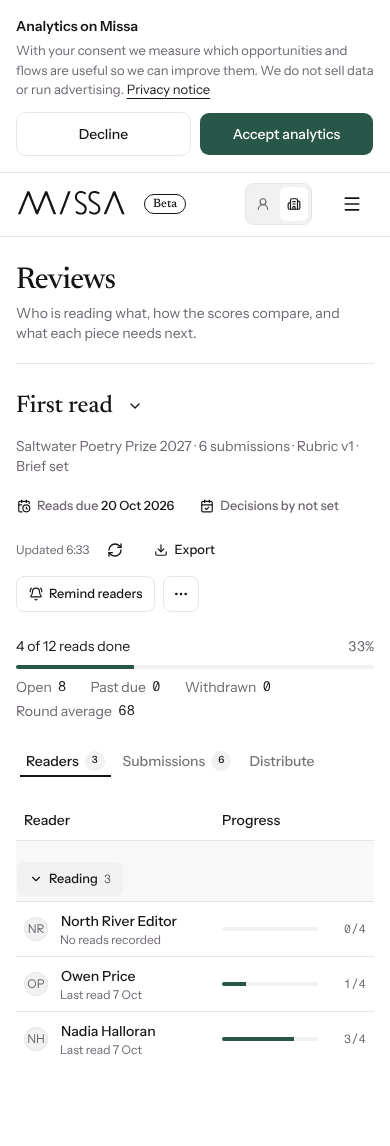
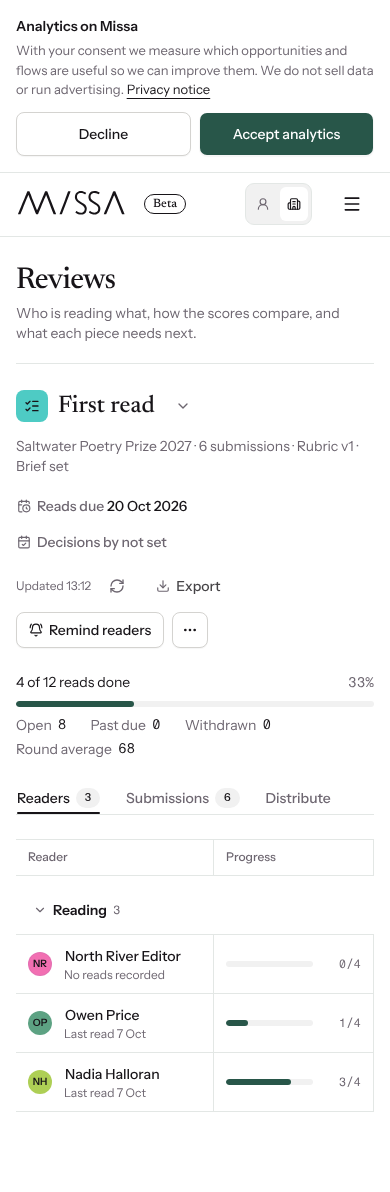
Rebuild Reviews on the Asana-grade components with colour
- Readers, submitters and the reader pool use PersonAvatar, so each
  person keeps one colour across lists, menus and detail panes.
- Each round is marked by a HueTile in the header and the round switcher.
- Reader and submission lists use the grid table with bold disclosure
  section headers that no longer pick up a grey band.
- Due and decision dates are chosen from a calendar popover.
- Rubric criteria carry a numbered colour tile in the editor and on the
  reader's scorecard, matched by criterion id.
- Scorecard headings use the interface face.

New: HueTile (components/missa), Button `disclosure`, PopoverHeader
`ruled`; policy and catalogue updated.

Claude-Session: https://claude.ai/code/session_01GKS91rw5HFDvnTWJByXCnh

diff --git a/apps/web/components/reader-operations.tsx b/apps/web/components/reader-operations.tsx
@@ -7,7 +7,6 @@ import { BellRing, Check, ChevronDown, ChevronRight, Download, Ellipsis, FileTex
 import type { DistributionPlan } from '@missa/workspace-engine';
 import type { RankedSubmissionRow, RoundOperationsView, RoundReaderRow } from '@/lib/readerOperationsData';
 import { Alert, AlertDescription, AlertTitle } from '@/components/ui/alert';
-import { Avatar, AvatarFallback } from '@/components/ui/avatar';
 import { Button } from '@/components/ui/button';
 import { Checkbox } from '@/components/ui/checkbox';
 import { Dialog, DialogClose, DialogContent, DialogDescription, DialogFooter, DialogHeader, DialogTitle } from '@/components/ui/dialog';
@@ -23,6 +22,8 @@ import { Tabs, TabsContent, TabsList, TabsTrigger } from '@/components/ui/tabs';
 import { Textarea } from '@/components/ui/textarea';
 import { CalibrationBadge, WorkDecisionBadge } from '@/components/missa/operations-badges';
 import { CountBadge } from '@/components/missa/count-badge';
+import { HueTile } from '@/components/missa/hue-tile';
+import { PersonAvatar } from '@/components/missa/person-avatar';
 import { SegmentedChoice } from '@/components/missa/segmented-choice';
 import { DecisionDateControl, NewRoundDialog, PromoteDialog, PublishResultsDialog, ReassignReadsDialog, RoundBriefDialog, RoundDueDateControl, RubricDialog } from '@/components/reader-round-actions';
 
@@ -34,7 +35,6 @@ export interface RoundSummary { id: string; name: string; opportunityTitle: stri
 const dayMonth = (value: string) => new Intl.DateTimeFormat('en-GB', { day: 'numeric', month: 'short' }).format(new Date(value));
 const clock = (value: string) => { const date = new Date(value); return Number.isNaN(date.getTime()) ? value : new Intl.DateTimeFormat('en-GB', { hour: 'numeric', minute: '2-digit' }).format(date); };
 const sentence = (value: string) => { const text = value.replaceAll('-', ' ').toLocaleLowerCase('en'); return text.charAt(0).toUpperCase() + text.slice(1); };
-const initials = (label: string) => label.split(/[\s@._-]+/u).filter(Boolean).slice(0, 2).map((part) => part[0]!.toUpperCase()).join('') || '?';
 
 function conflictLabel(reason: DistributionPlan['conflicts'][number]['reason']): string {
   switch (reason) {
@@ -118,7 +118,8 @@ export function ReaderOperations({ organizationId, initial, canManage, stageLabe
   return (
     <div className="grid gap-6">
       <header className="grid gap-3">
-        <div className="flex min-w-0 items-center gap-1">
+        <div className="flex min-w-0 items-center gap-2.5">
+          <HueTile identity={view.round.id}><ListChecks /></HueTile>
           <h2 id="round-title" className="truncate font-heading text-2xl font-medium text-foreground">{view.round.name}</h2>
           <DropdownMenu>
             <DropdownMenuTrigger render={<Button type="button" variant="ghost" size="icon-sm" />} aria-label="Switch review round">
@@ -129,12 +130,13 @@ export function ReaderOperations({ organizationId, initial, canManage, stageLabe
                 <DropdownMenuLabel>Review rounds</DropdownMenuLabel>
                 {rounds.map((round) => (
                   <DropdownMenuItem key={round.id} onClick={() => router.push(`${reviewsHref}?selected=${encodeURIComponent(round.id)}`)}>
-                    <span className="flex size-4 items-center justify-center">{round.id === roundId ? <Check aria-hidden="true" /> : null}</span>
+                    <HueTile identity={round.id} size="sm"><ListChecks /></HueTile>
                     <span className="grid min-w-0 flex-1">
                       <span className="truncate text-foreground">{round.name}</span>
                       <span className="truncate text-xs text-muted-foreground">{round.opportunityTitle}</span>
                     </span>
                     <span className="font-mono text-xs text-muted-foreground tabular-nums">{round.complete}/{round.total}</span>
+                    {round.id === roundId ? <Check aria-label="Current round" className="text-primary" /> : <span className="size-4" />}
                   </DropdownMenuItem>
                 ))}
               </DropdownMenuGroup>
@@ -214,7 +216,7 @@ export function ReaderOperations({ organizationId, initial, canManage, stageLabe
           {view.readers.length === 0 ? (
             <Empty variant="bordered"><EmptyHeader><EmptyTitle>No readers yet</EmptyTitle><EmptyDescription>Invite members with the reviewer role, then distribute this round.</EmptyDescription></EmptyHeader></Empty>
           ) : (
-            <Table>
+            <Table variant="grid">
               <caption className="sr-only">Readers in {view.round.name}, grouped by where they are</caption>
               <TableHeader>
                 <TableRow>
@@ -234,7 +236,7 @@ export function ReaderOperations({ organizationId, initial, canManage, stageLabe
                       <TableRow key={reader.reviewerAccountId} data-state={reader.reviewerAccountId === readerId ? 'selected' : undefined}>
                         <TableCell>
                           <div className="flex min-w-0 items-center gap-3">
-                            <Avatar size="sm"><AvatarFallback>{initials(reader.label)}</AvatarFallback></Avatar>
+                            <PersonAvatar size="sm" name={reader.label} identity={reader.reviewerAccountId} />
                             <div className="grid min-w-0">
                               <Button type="button" variant="rowTitle" size="inline" onClick={() => setReaderId(reader.reviewerAccountId)}>{reader.label}</Button>
                               <span className="truncate text-xs text-muted-foreground">{reader.lastActivityAt ? `Last read ${dayMonth(reader.lastActivityAt)}` : 'No reads recorded'}</span>
@@ -264,7 +266,7 @@ export function ReaderOperations({ organizationId, initial, canManage, stageLabe
             <Empty variant="bordered"><EmptyHeader><EmptyTitle>No submissions in this opportunity</EmptyTitle><EmptyDescription>The ranking fills in as submissions arrive and readers record scores.</EmptyDescription></EmptyHeader></Empty>
           ) : (
             <>
-              <Table>
+              <Table variant="grid">
                 <caption className="sr-only">Submissions ranked by average score, grouped by decision</caption>
                 <TableHeader>
                   <TableRow>
@@ -282,9 +284,12 @@ export function ReaderOperations({ organizationId, initial, canManage, stageLabe
                       <TableRow key={row.submissionId} data-state={row.submissionId === submissionId ? 'selected' : undefined}>
                         <TableCell className="text-end font-mono text-xs tabular-nums"><span className="text-muted-foreground">{view.ranking.indexOf(row) + 1}</span></TableCell>
                         <TableCell>
+                          <div className="flex min-w-0 items-center gap-3">
+                          <PersonAvatar size="sm" name={row.submitterLabel} identity={row.submissionId} />
                           <div className="grid min-w-0">
                             <Button type="button" variant="rowTitle" size="inline" onClick={() => setSubmissionId(row.submissionId)}>{row.submitterLabel}</Button>
                             <span className="truncate text-xs text-muted-foreground">{row.works.map((work) => work.title).join(' · ') || 'No Works'}</span>
+                          </div>
                           </div>
                         </TableCell>
                         <TableCell className="hidden text-end font-mono tabular-nums sm:table-cell">{row.completedCount}/{row.readerCount}</TableCell>
@@ -339,8 +344,8 @@ function ListGroup({ title, count, columns, defaultOpen = true, children }: { ti
   return (
     <TableBody>
       <TableRow variant="static">
-        <TableCell colSpan={columns} className="px-0 pt-5 pb-1">
-          <Button type="button" variant="ghost" size="sm" aria-expanded={open} onClick={() => setOpen((current) => !current)}>
+        <TableCell colSpan={columns} className="px-1 pt-4 pb-1.5">
+          <Button type="button" variant="disclosure" size="sm" aria-expanded={open} onClick={() => setOpen((current) => !current)}>
             {open ? <ChevronDown aria-hidden="true" /> : <ChevronRight aria-hidden="true" />}
             {title}
             <span className="font-mono text-xs font-normal text-muted-foreground tabular-nums">{count}</span>
@@ -385,7 +390,7 @@ function ReaderDetail({ reader, view, base, roundId, canMove, onMoved }: { reade
     <>
       <SheetHeader variant="section" className="pe-12">
         <div className="flex items-center gap-3">
-          <Avatar size="lg"><AvatarFallback>{initials(reader.label)}</AvatarFallback></Avatar>
+          <PersonAvatar size="lg" name={reader.label} identity={reader.reviewerAccountId} />
           <div className="grid min-w-0">
             <SheetTitle className="truncate">{reader.label}</SheetTitle>
             <SheetDescription>{sentence(reader.role)} · {view.round.name}</SheetDescription>
@@ -495,7 +500,7 @@ function NudgeDialog({ base, roundId, readers }: { base: string; roundId: string
           <ul className="max-h-48 divide-y divide-border overflow-auto border-y border-border text-sm">
             {readers.map((reader) => (
               <li key={reader.reviewerAccountId} className="flex items-center gap-3 py-2">
-                <Avatar size="sm"><AvatarFallback>{initials(reader.label)}</AvatarFallback></Avatar>
+                <PersonAvatar size="sm" name={reader.label} identity={reader.reviewerAccountId} />
                 <span className="min-w-0 flex-1 truncate">{reader.label}</span>
                 <span className="font-mono text-xs text-muted-foreground tabular-nums">{reader.open} open{reader.overdue ? ` · ${reader.overdue} past due` : ''}</span>
               </li>
@@ -582,7 +587,7 @@ function DistributionPanel({ base, roundId, view, onApplied }: { base: string; r
                 <li key={member.accountId}>
                   <label className="flex min-h-11 items-center gap-3 px-1 text-sm hover:bg-muted/50">
                     <Checkbox checked={selected.has(member.accountId)} onCheckedChange={(checked) => toggle(member.accountId, Boolean(checked))} aria-label={`Include ${member.label}`} />
-                    <Avatar size="sm"><AvatarFallback>{initials(member.label)}</AvatarFallback></Avatar>
+                    <PersonAvatar size="sm" name={member.label} identity={member.accountId} />
                     <span className="min-w-0 flex-1 truncate">{member.label}</span>
                     <span className="text-xs text-muted-foreground">{sentence(member.role)}</span>
                     <span className="w-16 text-end font-mono text-xs text-muted-foreground tabular-nums">{member.openAssignments} open</span>

diff --git a/apps/web/components/reader-round-actions.tsx b/apps/web/components/reader-round-actions.tsx
@@ -12,9 +12,11 @@ import { Dialog, DialogClose, DialogContent, DialogDescription, DialogFooter, Di
 import { Field, FieldDescription, FieldLabel } from '@/components/ui/field';
 import { Input } from '@/components/ui/input';
 import { NativeSelect, NativeSelectOption } from '@/components/ui/native-select';
+import { Calendar } from '@/components/ui/calendar';
 import { Popover, PopoverContent, PopoverDescription, PopoverHeader, PopoverTitle, PopoverTrigger } from '@/components/ui/popover';
 import { Textarea } from '@/components/ui/textarea';
 import { SegmentedChoice } from '@/components/missa/segmented-choice';
+import { HueTile } from '@/components/missa/hue-tile';
 import { RUBRIC_UI_LIMITS } from '@/lib/rubricClient';
 
 /**
@@ -47,30 +49,29 @@ function dateInputValue(value?: string): string {
  * A date shown as a field value, edited in a small popover: the way a task
  * tool shows a due date. Saving and clearing go through the caller's route.
  */
-function DateFieldPopover({ id, icon, label, emptyLabel, description, value, onSave }: { id: string; icon: React.ReactNode; label: string; emptyLabel: string; description: string; value?: string; onSave: (next: string | null) => Promise<boolean> }) {
+function DateFieldPopover({ icon, label, emptyLabel, description, value, onSave }: { id?: string; icon: React.ReactNode; label: string; emptyLabel: string; description: string; value?: string; onSave: (next: string | null) => Promise<boolean> }) {
   const [open, setOpen] = useState(false);
-  const [draft, setDraft] = useState(dateInputValue(value));
   const [pending, startTransition] = useTransition();
+  const selected = value ? new Date(`${dateInputValue(value)}T12:00:00`) : undefined;
   const save = (next: string | null) => startTransition(async () => { if (await onSave(next)) setOpen(false); });
+  const iso = (date: Date) => `${date.getFullYear()}-${String(date.getMonth() + 1).padStart(2, '0')}-${String(date.getDate()).padStart(2, '0')}`;
   return (
-    <Popover open={open} onOpenChange={(next) => { setOpen(next); if (next) setDraft(dateInputValue(value)); }}>
+    <Popover open={open} onOpenChange={setOpen}>
       <PopoverTrigger render={<Button type="button" variant="ghost" size="sm" />}>
         {icon}
         <span><span className="text-muted-foreground">{label}</span> <span className={value ? 'text-foreground' : 'text-muted-foreground'}>{value ? shortDate(value) : emptyLabel}</span></span>
       </PopoverTrigger>
-      <PopoverContent align="start" className="w-72">
-        <PopoverHeader>
+      <PopoverContent align="start" flush className="w-64">
+        <PopoverHeader ruled>
           <PopoverTitle>{label}</PopoverTitle>
           <PopoverDescription>{description}</PopoverDescription>
         </PopoverHeader>
-        <Field>
-          <FieldLabel htmlFor={id} className="sr-only">{label}</FieldLabel>
-          <Input id={id} type="date" value={draft} onChange={(event) => setDraft(event.target.value)} />
-        </Field>
-        <div className="flex justify-end gap-2">
-          {value ? <Button type="button" size="sm" variant="ghost" onClick={() => save(null)} disabled={pending}>Clear</Button> : null}
-          <Button type="button" size="sm" onClick={() => save(draft || null)} disabled={pending || !draft || draft === dateInputValue(value)}>{pending ? 'Saving…' : 'Save'}</Button>
-        </div>
+        <Calendar mode="single" selected={selected} defaultMonth={selected} disabled={pending} onSelect={(date) => { if (date) save(iso(date)); }} />
+        {value ? (
+          <div className="flex justify-end border-t border-border px-2 py-2">
+            <Button type="button" size="xs" variant="ghost" onClick={() => save(null)} disabled={pending}>Clear date</Button>
+          </div>
+        ) : null}
       </PopoverContent>
     </Popover>
   );
@@ -492,7 +493,9 @@ export function RubricDialog({ base, roundId, rubric, onSaved, ...control }: { b
               <ol aria-label="Criteria" className="divide-y divide-border">
                 {rows.map((row, index) => (
                   <li key={row.key} className="grid gap-3 p-4 sm:grid-cols-[minmax(0,1fr)_auto] sm:items-start sm:gap-6">
-                    <div className="grid min-w-0 gap-2">
+                    <div className="flex min-w-0 gap-3">
+                    <HueTile identity={row.id ?? row.key} size="sm">{index + 1}</HueTile>
+                    <div className="grid min-w-0 flex-1 gap-2">
                       <Field>
                         <FieldLabel htmlFor={`criterion-label-${row.key}`} className="sr-only">Criterion {index + 1} name</FieldLabel>
                         <Input id={`criterion-label-${row.key}`} value={row.label} maxLength={80} onChange={(event) => update(row.key, { label: event.target.value })} placeholder={`Criterion ${index + 1}, for example Voice`} />
@@ -501,6 +504,7 @@ export function RubricDialog({ base, roundId, rubric, onSaved, ...control }: { b
                         <FieldLabel htmlFor={`criterion-description-${row.key}`} className="sr-only">Guidance for readers on criterion {index + 1}</FieldLabel>
                         <Textarea id={`criterion-description-${row.key}`} value={row.description} maxLength={400} rows={2} onChange={(event) => update(row.key, { description: event.target.value })} placeholder="What a top score looks like. Readers see this beside the scale." />
                       </Field>
+                    </div>
                     </div>
                     <div className="flex flex-wrap items-end gap-4 sm:flex-nowrap">
                       <Field className="w-20 gap-2">

diff --git a/apps/web/components/reviewer-score-form.tsx b/apps/web/components/reviewer-score-form.tsx
@@ -13,6 +13,7 @@ import { Textarea } from '@/components/ui/textarea';
 import type { RubricCriterion } from '@missa/workspace-engine';
 import { previewRubricScore } from '@/lib/rubricClient';
 import { SegmentedChoice } from '@/components/missa/segmented-choice';
+import { HueTile } from '@/components/missa/hue-tile';
 
 /**
  * The reader's recommendation: one whole-number score from 0 to 100 and
@@ -57,7 +58,7 @@ function RubricScoreForm({ assignmentId, existing, locked, rubric }: { assignmen
   return (
     <form onSubmit={submit} className="grid gap-5" aria-labelledby="reviewer-score-form-title">
       <div className="grid gap-1">
-        <h3 id="reviewer-score-form-title" className="font-heading text-lg font-medium text-foreground">{existing ? 'Update your recommendation' : 'Record your recommendation'}</h3>
+        <h3 id="reviewer-score-form-title" className="text-base font-semibold text-foreground">{existing ? 'Update your recommendation' : 'Record your recommendation'}</h3>
         <p className="text-sm text-muted-foreground">Score each criterion. Your notes go to the review team only, never to the submitter.</p>
       </div>
       {existing && existing.rubricVersion !== undefined && !sameVersion ? <Alert><AlertTitle>The rubric changed</AlertTitle><AlertDescription>You scored this on version {existing.rubricVersion}. That score still counts. Re-score to use version {rubric.version}.</AlertDescription></Alert> : null}
@@ -67,11 +68,11 @@ function RubricScoreForm({ assignmentId, existing, locked, rubric }: { assignmen
           const value = scores[criterion.id];
           return (
             <li key={criterion.id} className="grid gap-3 py-4">
-              <div className="flex items-baseline justify-between gap-3">
-                <span id={labelId} className="text-sm font-medium text-foreground">{criterion.label}</span>
+              <div className="flex items-center justify-between gap-3">
+                <span className="flex items-center gap-2.5"><HueTile identity={criterion.id} size="sm">{rubric.criteria.indexOf(criterion) + 1}</HueTile><span id={labelId} className="text-sm font-medium text-foreground">{criterion.label}</span></span>
                 <span className="text-xs text-muted-foreground tabular-nums">{value === undefined ? `– of ${criterion.maxScore}` : `${value} of ${criterion.maxScore}`}{criterion.weight > 1 ? ` · weight ${criterion.weight}` : ''}</span>
               </div>
-              {criterion.description ? <p className="-mt-2 text-sm text-muted-foreground">{criterion.description}</p> : null}
+              {criterion.description ? <p className="-mt-2 ps-8.5 text-sm text-muted-foreground">{criterion.description}</p> : null}
               <SegmentedChoice
                 aria-labelledby={labelId}
                 value={value === undefined ? undefined : String(value)}
@@ -128,7 +129,7 @@ function SingleScoreForm({ assignmentId, existing, locked }: { assignmentId: str
 
   return (
     <form onSubmit={submit} className="grid gap-4" aria-labelledby="reviewer-score-form-title">
-      <h3 id="reviewer-score-form-title" className="font-heading text-lg font-medium text-foreground">{existing ? 'Update your recommendation' : 'Record your recommendation'}</h3>
+      <h3 id="reviewer-score-form-title" className="text-base font-semibold text-foreground">{existing ? 'Update your recommendation' : 'Record your recommendation'}</h3>
       <p className="text-sm text-muted-foreground">This round uses a single 0 to 100 score with notes. Your notes are private to the organization’s review team and are never shown to the submitter.</p>
       <Field>
         <FieldLabel htmlFor={`score-${assignmentId}`}>Score (0 to 100)</FieldLabel>
@@ -206,7 +207,7 @@ export function RoundBriefPanel({ assignmentId, brief }: { assignmentId: string;
   });
   return (
     <section aria-labelledby={`brief-title-${assignmentId}`} className="rounded-lg border border-border p-4">
-      <h3 id={`brief-title-${assignmentId}`} className="font-heading text-lg font-medium text-foreground">Brief for this round</h3>
+      <h3 id={`brief-title-${assignmentId}`} className="text-base font-semibold text-foreground">Brief for this round</h3>
       <p className="mt-2 text-sm leading-6 whitespace-pre-line text-foreground">{brief.text}</p>
       <div className="mt-3 flex flex-wrap items-center gap-3">
         {brief.acknowledged ? <span className="text-xs text-muted-foreground">You acknowledged this brief.</span> : <Button type="button" onClick={acknowledge} disabled={pending}>{pending ? 'Saving…' : 'I have read this brief'}</Button>}

diff --git a/apps/web/components/missa/hue-tile.tsx b/apps/web/components/missa/hue-tile.tsx
@@ -1,0 +1,20 @@
+import { personHue } from "@/components/missa/person-avatar";
+
+/**
+ * A small colour tile that marks a record, the way task tools mark a
+ * project: an icon or a number on one of the categorical hues, chosen from
+ * the record's identity so it stays the same everywhere.
+ */
+const tileHue: Record<string, string> = {
+  red: "bg-hue-red", orange: "bg-hue-orange", amber: "bg-hue-amber", yellow: "bg-hue-yellow",
+  lime: "bg-hue-lime", green: "bg-hue-green", teal: "bg-hue-teal", blue: "bg-hue-blue",
+  indigo: "bg-hue-indigo", purple: "bg-hue-purple", magenta: "bg-hue-magenta", pink: "bg-hue-pink",
+};
+
+export function HueTile({ identity, children, size = "default" }: { identity: string; children: React.ReactNode; size?: "sm" | "default" }) {
+  return (
+    <span aria-hidden="true" className={`flex shrink-0 items-center justify-center rounded-md font-semibold text-foreground [&_svg]:size-4 ${tileHue[personHue(identity)]} ${size === "sm" ? "size-6 text-xs" : "size-8 text-sm"}`}>
+      {children}
+    </span>
+  );
+}

diff --git a/apps/web/components/ui/button.tsx b/apps/web/components/ui/button.tsx
@@ -22,6 +22,9 @@ const buttonVariantClasses = cva(
         /** A control that opens a picker and shows its value, drawn like a text field. */
         field:
           "w-full justify-start border-border-strong bg-background font-normal text-foreground shadow-control hover:border-foreground/30 aria-expanded:border-ring aria-expanded:ring-3 aria-expanded:ring-ring/15 [&_svg:not([class*='text-'])]:text-muted-foreground",
+        /** The header of a collapsible list section: bold, no fill when open. */
+        disclosure:
+          "font-semibold text-foreground hover:bg-muted [&_svg:not([class*='text-'])]:text-muted-foreground",
         /** The name of a row in a list, opening that row's details. */
         rowTitle:
           "min-w-0 max-w-full justify-start truncate text-start text-foreground underline-offset-4 hover:underline",

diff --git a/apps/web/components/ui/popover.tsx b/apps/web/components/ui/popover.tsx
@@ -52,11 +52,18 @@ function PopoverContent({
   )
 }
 
-function PopoverHeader({ className, ...props }: React.ComponentProps<"div">) {
+function PopoverHeader({
+  className,
+  ruled = false,
+  ...props
+}: React.ComponentProps<"div"> & {
+  /** Padded header with a rule below, for a `flush` popover. */
+  ruled?: boolean
+}) {
   return (
     <div
       data-slot="popover-header"
-      className={cn("flex flex-col gap-1 text-sm", className)}
+      className={cn("flex flex-col gap-1 text-sm", ruled && "border-b border-border px-4 py-3", className)}
       {...props}
     />
   )
